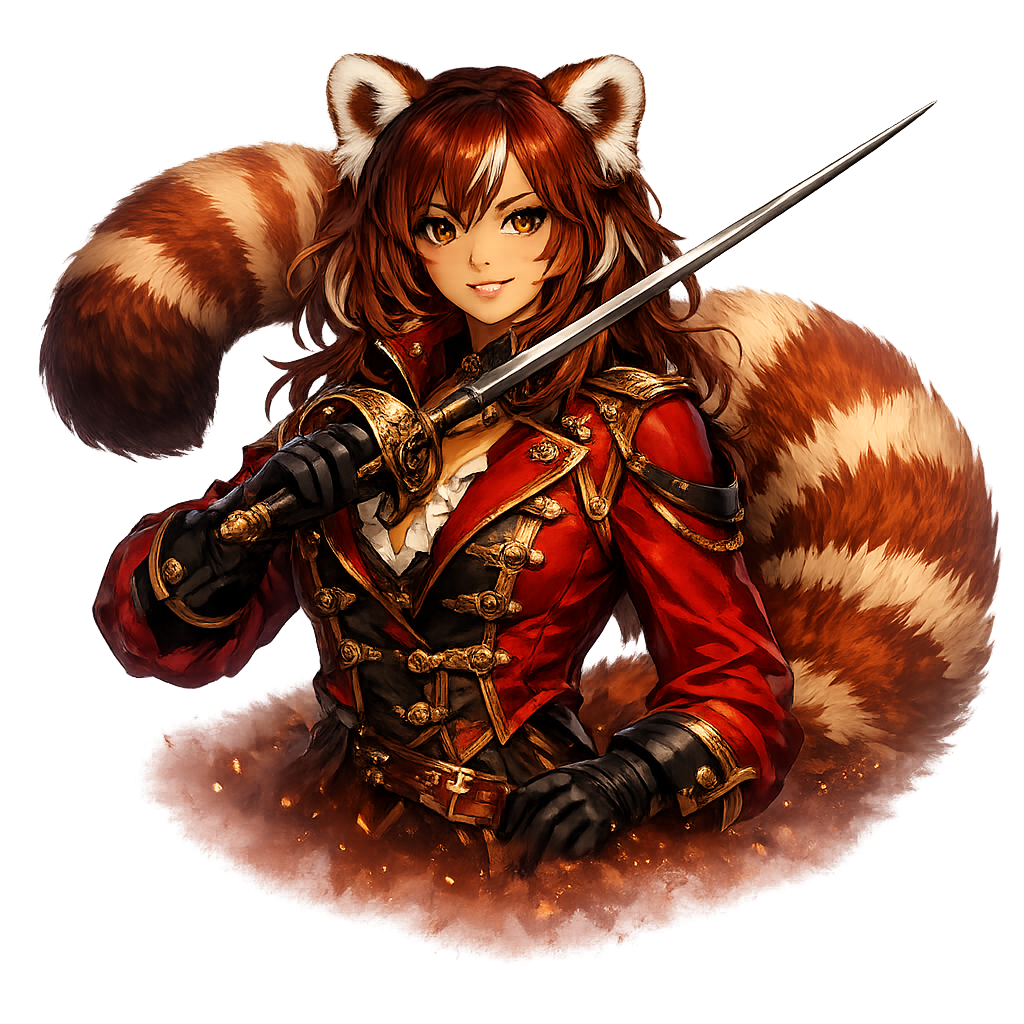
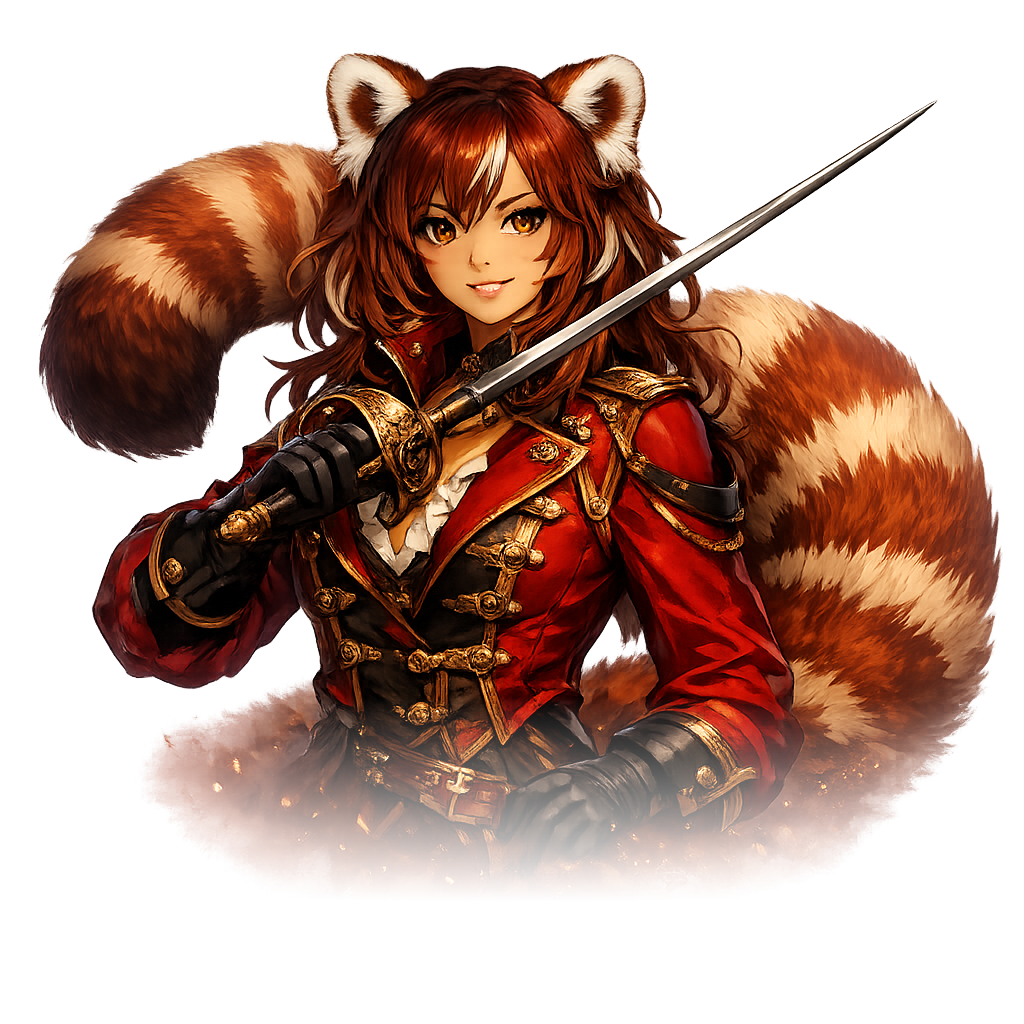
chore(sync): update rice snapshot (v1.3.12)

Changed region(s): [[0.1562, 0.6875, 0.9375, 0.9375]]

diff --git a/CHANGELOG.md b/CHANGELOG.md
@@ -104,3 +104,9 @@ creates a patch release whenever managed rice files change.
 ### Changed
 
 - Synced 9 managed path(s) (data/beast-girls/03_cobalt_direwolf_knight-v3.png,data/beast-girls/03_cobalt_direwolf_knight.png,data/beast-girls/04_amber_tiger_alchemist-v3.png,data/beast-girls/04_amber_tiger_alchemist.png,data/beast-girls/06_teal_snow_leopard_artificer.png,data/beast-girls/07_crimson_red_panda_duelist.png,data/beast-girls/08_opaline_deer_grove_healer.png,data/beast-girls/09_neon_black_cat_arcane_hacker.png)
+
+## [1.3.12] - 2026-08-27
+
+### Changed
+
+- Synced 10 managed path(s) (data/beast-girls/01_emerald_lynx_scout.png,data/beast-girls/02_sakura_kitsune_guardian.png,data/beast-girls/05_lavender_moon_rabbit_astrologer.png,data/beast-girls/06_teal_snow_leopard_artificer.png,data/beast-girls/07_crimson_red_panda_duelist.png,data/beast-girls/08_opaline_deer_grove_healer.png,data/beast-girls/09_neon_black_cat_arcane_hacker.png,data/beast-girls/10_sunset_fennec_desert_bard.png)
